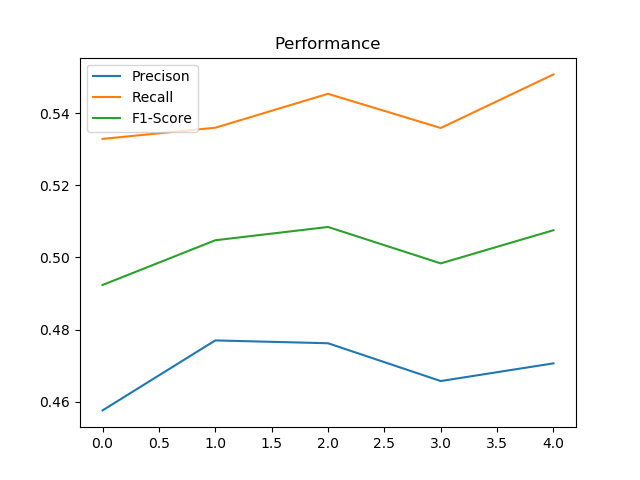
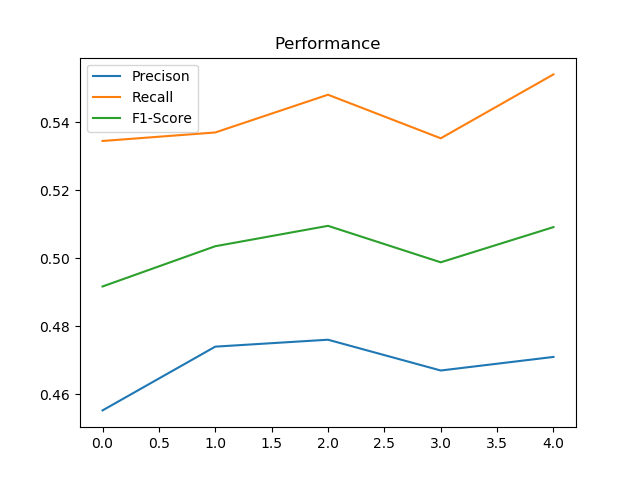
Ran New tests

diff --git a/b_j_features.py b/b_j_features.py
@@ -1,14 +1,18 @@
 import pandas as pd
 import numpy as np
-from scipy import sparse, io
+from scipy import io, sparse
+import pickle
 
 from sklearn import svm
 from sklearn.model_selection import KFold
 from sklearn.metrics import precision_recall_fscore_support
 from sklearn.feature_extraction.text import CountVectorizer
-from sklearn.feature_selection import chi2
+from sklearn.feature_selection import chi2, RFE, f_regression
+from sklearn.preprocessing import MinMaxScaler
 
 import matplotlib.pyplot as plt
+# Lieb Paper (1st)
+lieb_path = './Lieb/lieb.pkl'
 
 # Gonzalez Paper (2nd)
 gonz_path = './Gonzalez/gonz_df.pkl'
@@ -21,45 +25,60 @@ joshi_path = './Context_Incongruity/jc_features_df.pkl'
 
 ''' Starts Here '''
 # Input Args
-base_df_pkl_path = bush_path
+# base_df_pkl_path = gonz_path
 
 # Output Args
-stats_path = "./stats/B_GLOVE_"
 
 
-# '''Ready Features'''
+'''Ready Features'''
 # # Dataset
-# df = pd.read_csv('./final_data.tsv', sep='\t')
+# df = pd.read_csv('final_data.tsv', sep='\t')
 # labels = np.array(list(df['label']))
 
-# bf = pd.read_pickle(base_df_pkl_path)
+# # Paper Features
+# # lieb = io.mmread('./Lieb/lieb.mtx')
 
-# w1 = pd.read_pickle('./WordEmbedding/glove_wembed_1.pkl')
-# w3 = pd.read_pickle('./WordEmbedding/glove_wembed_3.pkl')
-# w5 = pd.read_pickle('./WordEmbedding/glove_wembed_5.pkl')
+# gonz = pd.read_pickle(gonz_path)
+# print(gonz.shape)
+# # gonz = gonz.iloc[:, -10:]
+# gonz = sparse.csr_matrix(gonz.values)
 
-# # Append WordEmbedding Feature
-# bf_1 = pd.concat([bf, w1.iloc[:, 0:4]], axis=1, ignore_index=True)
-# bf_3 = pd.concat([bf, w3.iloc[:, 0:4]], axis=1, ignore_index=True)
-# bf_5 = pd.concat([bf, w5.iloc[:, 0:4]], axis=1, ignore_index=True)
+# bush = pd.read_pickle(bush_path)
+# # bush = bush.iloc[:, -10:]
+# bush = sparse.csr_matrix(bush.values)
 
-'''Sparse CSR Matrix'''
-bf = io.mmread('./bush/bush_balanced_csr.mtx')
-labels = np.loadtxt('./new_label_balanced.txt', dtype=np.int32)
+# josh = pd.read_pickle(joshi_path)
+# # josh = josh.iloc[:, -10:]
+# josh = sparse.csr_matrix(josh.values)
 
-print(bf.shape)
-stats_path = "./new_stats/B_BASE_BAL"
+# # print(lieb.shape, gonz.shape, bush.shape, josh.shape)
 
-# # Stats path
-# stats_path = './new_stats/B_BASE_UNBAL'
+# # Append all Features
+# full = sparse.hstack((gonz, bush, josh))
+# print(full.shape)
 
-# print(bf.shape)
-# print(labels.sum())
+'''Sparse Features'''
+bush = io.mmread('./bush/bush_unbalanced_csr.mtx')
+bush = bush.tocsc()
+josh = io.mmread('./joshi/jc_unbalanced_csr.mtx')
+josh = josh.tocsc()
+
+labels = np.loadtxt('./new_label_unbalanced.txt', dtype=np.int32)
+
+stats_path = "./new_stats/B_J_BASE_UNBAL"
+
+# For Unbalanced Dataset
+unigram_end = 30467
+# For Balanced Dataser
+# unigram_end = 37149
+
+all_feat = sparse.hstack(
+    (bush, josh[:, unigram_end:]))
 
 # Training
 # Initialize model
 svmmodel = svm.SVC(gamma='scale', class_weight='balanced',
-                   C=20.0, cache_size=1000)
+                   C=20.0, cache_size=4000)
 
 
 def classify(data, labels, model):
@@ -69,9 +88,10 @@ def classify(data, labels, model):
     i = 0
     for train, test in kfold.split(data):
         print(i)
+#         dd = SparseRowIndexer(data)
         data = data.tocsr()
-        X_train, X_test, y_train, y_test = data[train], data[test], labels[train], labels[test]
-        X_train = sparse.csr_matrix(X_train)
+        X_train, X_test, y_train, y_test = data[train,
+                                                :], data[test, :], labels[train], labels[test]
         model.fit(X_train, y_train.ravel())
         y_pred = model.predict(X_test)
         metric = precision_recall_fscore_support(y_test, y_pred)
@@ -82,21 +102,13 @@ def classify(data, labels, model):
     return scores
 
 
-scores = []
+# TRAINING
 
-temp = classify(bf, labels, svmmodel)
+scores = []
+temp = classify(all_feat, labels, svmmodel)
 scores.append(temp)
 
-# # temp = classify(bf_1, labels, svmmodel)
-# # scores.append(temp)
-
-# # temp = classify(bf_3, labels, svmmodel)
-# # scores.append(temp)
-
-# # temp = classify(bf_5, labels, svmmodel)
-# # scores.append(temp)
-
-for i in range(0, len(scores)):
+for i in range(0, 1):
     plt.title('Performance')
     plt.plot([x for x in range(len(scores[i]))], [score[0][1]
                                                   for score in scores[i]])

diff --git a/b_j_features_bal.py b/b_j_features_bal.py
@@ -1,14 +1,18 @@
 import pandas as pd
 import numpy as np
-from scipy import sparse, io
+from scipy import io, sparse
+import pickle
 
 from sklearn import svm
 from sklearn.model_selection import KFold
 from sklearn.metrics import precision_recall_fscore_support
 from sklearn.feature_extraction.text import CountVectorizer
-from sklearn.feature_selection import chi2
+from sklearn.feature_selection import chi2, RFE, f_regression
+from sklearn.preprocessing import MinMaxScaler
 
 import matplotlib.pyplot as plt
+# Lieb Paper (1st)
+lieb_path = './Lieb/lieb.pkl'
 
 # Gonzalez Paper (2nd)
 gonz_path = './Gonzalez/gonz_df.pkl'
@@ -21,45 +25,60 @@ joshi_path = './Context_Incongruity/jc_features_df.pkl'
 
 ''' Starts Here '''
 # Input Args
-base_df_pkl_path = bush_path
+# base_df_pkl_path = gonz_path
 
 # Output Args
-stats_path = "./stats/B_GLOVE_"
 
 
-# '''Ready Features'''
+'''Ready Features'''
 # # Dataset
-# df = pd.read_csv('./final_data.tsv', sep='\t')
+# df = pd.read_csv('final_data.tsv', sep='\t')
 # labels = np.array(list(df['label']))
 
-# bf = pd.read_pickle(base_df_pkl_path)
+# # Paper Features
+# # lieb = io.mmread('./Lieb/lieb.mtx')
 
-# w1 = pd.read_pickle('./WordEmbedding/glove_wembed_1.pkl')
-# w3 = pd.read_pickle('./WordEmbedding/glove_wembed_3.pkl')
-# w5 = pd.read_pickle('./WordEmbedding/glove_wembed_5.pkl')
+# gonz = pd.read_pickle(gonz_path)
+# print(gonz.shape)
+# # gonz = gonz.iloc[:, -10:]
+# gonz = sparse.csr_matrix(gonz.values)
 
-# # Append WordEmbedding Feature
-# bf_1 = pd.concat([bf, w1.iloc[:, 0:4]], axis=1, ignore_index=True)
-# bf_3 = pd.concat([bf, w3.iloc[:, 0:4]], axis=1, ignore_index=True)
-# bf_5 = pd.concat([bf, w5.iloc[:, 0:4]], axis=1, ignore_index=True)
+# bush = pd.read_pickle(bush_path)
+# # bush = bush.iloc[:, -10:]
+# bush = sparse.csr_matrix(bush.values)
 
-'''Sparse CSR Matrix'''
-bf = io.mmread('./bush/bush_balanced_csr.mtx')
+# josh = pd.read_pickle(joshi_path)
+# # josh = josh.iloc[:, -10:]
+# josh = sparse.csr_matrix(josh.values)
+
+# # print(lieb.shape, gonz.shape, bush.shape, josh.shape)
+
+# # Append all Features
+# full = sparse.hstack((gonz, bush, josh))
+# print(full.shape)
+
+'''Sparse Features'''
+bush = io.mmread('./bush/bush_balanced_csr.mtx')
+bush = bush.tocsc()
+josh = io.mmread('./joshi/jc_balanced_csr.mtx')
+josh = josh.tocsc()
+
 labels = np.loadtxt('./new_label_balanced.txt', dtype=np.int32)
 
-print(bf.shape)
-stats_path = "./new_stats/B_BASE_BAL"
+stats_path = "./new_stats/B_J_BASE_BAL"
 
-# # Stats path
-# stats_path = './new_stats/B_BASE_UNBAL'
+# For Unbalanced Dataset
+# unigram_end = 30467
+# For Balanced Dataser
+unigram_end = 37149
 
-# print(bf.shape)
-# print(labels.sum())
+all_feat = sparse.hstack(
+    (bush, josh[:, unigram_end:]))
 
 # Training
 # Initialize model
 svmmodel = svm.SVC(gamma='scale', class_weight='balanced',
-                   C=20.0, cache_size=1000)
+                   C=20.0, cache_size=4000)
 
 
 def classify(data, labels, model):
@@ -69,9 +88,10 @@ def classify(data, labels, model):
     i = 0
     for train, test in kfold.split(data):
         print(i)
+#         dd = SparseRowIndexer(data)
         data = data.tocsr()
-        X_train, X_test, y_train, y_test = data[train], data[test], labels[train], labels[test]
-        X_train = sparse.csr_matrix(X_train)
+        X_train, X_test, y_train, y_test = data[train,
+                                                :], data[test, :], labels[train], labels[test]
         model.fit(X_train, y_train.ravel())
         y_pred = model.predict(X_test)
         metric = precision_recall_fscore_support(y_test, y_pred)
@@ -82,21 +102,13 @@ def classify(data, labels, model):
     return scores
 
 
-scores = []
+# TRAINING
 
-temp = classify(bf, labels, svmmodel)
+scores = []
+temp = classify(all_feat, labels, svmmodel)
 scores.append(temp)
 
-# # temp = classify(bf_1, labels, svmmodel)
-# # scores.append(temp)
-
-# # temp = classify(bf_3, labels, svmmodel)
-# # scores.append(temp)
-
-# # temp = classify(bf_5, labels, svmmodel)
-# # scores.append(temp)
-
-for i in range(0, len(scores)):
+for i in range(0, 1):
     plt.title('Performance')
     plt.plot([x for x in range(len(scores[i]))], [score[0][1]
                                                   for score in scores[i]])

diff --git a/final_2.py b/final_2.py
@@ -48,10 +48,10 @@ base_df_pkl_path = gonz_path
 # bf_5 = pd.concat([bf, w5.iloc[:, 0:4]], axis=1, ignore_index=True)
 
 '''Sparse CSR Matrix'''
-bf = io.mmread('./gonzalez/gonz_unbalanced_csr.mtx')
-labels = np.loadtxt('./new_label_unbalanced.txt', dtype=np.int32)
+bf = io.mmread('./gonzalez/gonz_balanced_csr.mtx')
+labels = np.loadtxt('./new_label_balanced.txt', dtype=np.int32)
 
-stats_path = "./new_stats/G_BASE_UNBAL"
+stats_path = "./new_stats/G_BASE_BAL"
 
 print(bf.shape)
 if(bf.shape[0] == 54001):

diff --git a/final_1.py b/final_1.py
@@ -45,11 +45,11 @@ lieb_path = './Lieb/lieb.pkl'
 # bf_5 = sparse.hstack((bf, w5))
 
 '''Sparse CSR Matrix'''
-bf = io.mmread('./lieb/lieb_unbalanced_csr.mtx')
-labels = np.loadtxt('./new_label_unbalanced.txt', dtype=np.int32)
+bf = io.mmread('./lieb/lieb_balanced_csr.mtx')
+labels = np.loadtxt('./new_label_balanced.txt', dtype=np.int32)
 
 # Output Args
-stats_path = "./new_stats/L_BASE_UNBAL"
+stats_path = "./new_stats/L_BASE_BAL"
 
 print(bf.shape)
 print(labels.sum())

diff --git a/final_4.py b/final_4.py
@@ -48,9 +48,9 @@ base_df_pkl_path = joshi_path
 
 # Sparse Matrices
 # Sparse Load
-bf = io.mmread('./joshi/jc_unbalanced_csr.mtx')
-labels = np.loadtxt('./new_label_unbalanced.txt', dtype=np.int32)
-stats_path = "./new_stats/J_BASE_UNBAL"
+bf = io.mmread('./joshi/jc_balanced_csr.mtx')
+labels = np.loadtxt('./new_label_balanced.txt', dtype=np.int32)
+stats_path = "./new_stats/J_BASE_BAL"
 
 print(bf.shape)
 print(labels.sum())
